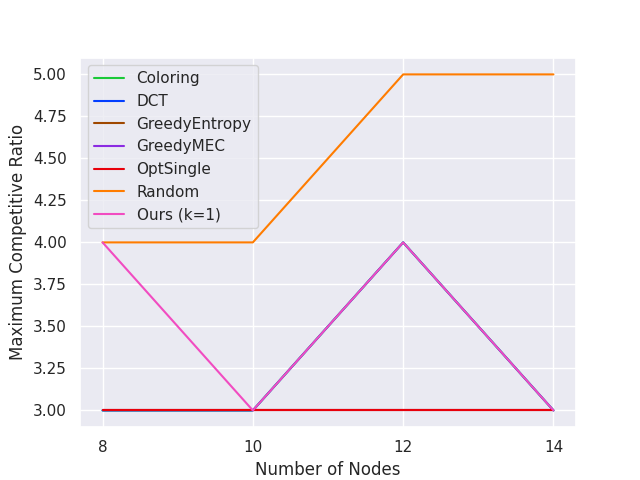
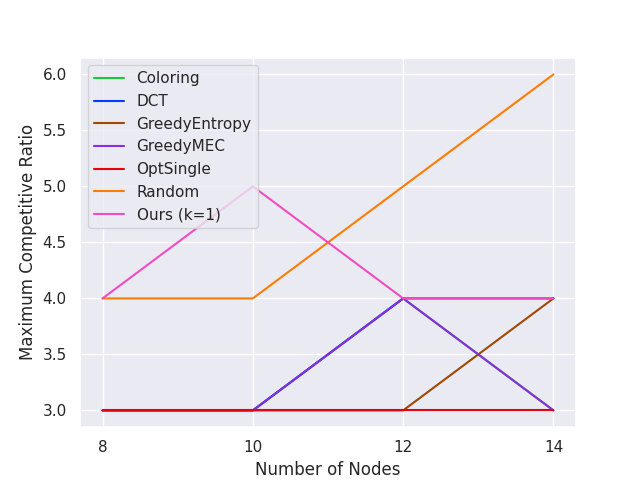
Updated bounded size separator and ratio computation; cleaned up figure generation

diff --git a/our_code/separator_policy.py b/our_code/separator_policy.py
@@ -2,6 +2,8 @@ from causaldag import DAG
 import random
 import networkx as nx
 
+from collections import defaultdict
+import math
 import sys
 sys.path.insert(0, './PADS')
 import LexBFS
@@ -88,30 +90,22 @@ def compute_clique_graph_separator(adj_list, nodes):
     return C
 
 '''
-Steps until fully oriented:
-1) Compute a clique separator
-2) Partition the clique into disjoint subcliques of n/k vertices arbitrarily
-3) To ensure that cut edges are oriented, intervene on all vertices in each subclique, one subclique at a time
-4) For each subclique, pick each vertex with probability 1/2 independently and uniformly at random
-5) Intervened on chosen vertices in 4). Repeat until subclique is fully oriented.
+Maintain a queue of (bounded) size interventions, skipping interventions if all incident edges already oriented.
+If queue is empty, gather 1/2-clique separators from each connected component of size >= 2, and attempt to orient them.
+To orient the union of 1/2-clique separator nodes Q, use atomic interventions if k = 1 or |Q| = 1, else compute the labelling scheme of Lemma 1 of [SKDV15].
 
-Phase 1: steps 1,2
-Phase 2: step 3
-Phase 3: steps 4,5
-
-When k = 1, the algorithm performs atomic intervention as expected 
-- the subcliques are just one vertex each
-- phase 2 will intervene one vertex at a time as long as the vertex is adjacent to unoriented edges
-- phase 3 will be skipped because a singleton subclique has no internal edges
+The following few lines are copied from the proof of Lemma 1
+Let n = p_d a^d + r_d and n = p_{d-1} a^{d-1} + r_{d-1}
+1) Repeat 0 a^{d-1} times, repeat the next integer 1 a^{d-1} times and so on circularly from {0,1,...,a-1} till p_d * a^d.
+2) After that, repeat 0 ceil(r_d/a) times followed by 1 ceil(r_d/a) times till we reach the nth position. Clearly, n-th integer in the sequence would not exceed a-1.
+3) Every integer occurring after the position a^{d-1} p_{d-1} is increased by 1.
 '''
 def separator_policy(dag: DAG, k: int, verbose: bool = False) -> set:
     intervened_nodes = set()
 
     current_cpdag = dag.cpdag()
 
-    phase = 1
-    subcliques = []
-    subclique_idx = 0
+    intervention_queue = []
     while current_cpdag.num_arcs != dag.num_arcs:
         if verbose: print(f"Remaining edges: {current_cpdag.num_edges}")
         
@@ -127,14 +121,23 @@ def separator_policy(dag: DAG, k: int, verbose: bool = False) -> set:
         G.add_edges_from(undirected_portions.edges)
 
         intervention = None
-        while intervention is None:
-            # Phase 1
-            # Step 1: Compute a clique separator
-            # Step 2: Partition the clique into disjoint subcliques of n/k vertices arbitrarily
-            if phase == 1:
-                # Focus on any connected component
-                cc = G.subgraph(max(nx.connected_components(G), key=len))
+        while len(intervention_queue) > 0 and intervention is None:
+            intervention = intervention_queue.pop()
+    
+            # If all incident edges already oriented, skip this intervention
+            if sum([G.degree[node] for node in intervention]) == 0:
+                intervention = None
 
+        if intervention is None:
+            assert len(intervention_queue) == 0
+
+            # Compute 1/2-clique separator for each connected component of size >= 2
+            clique_separator_nodes = []
+            for cc_nodes in nx.connected_components(G):
+                if len(cc_nodes) == 1:
+                    continue
+                cc = G.subgraph(cc_nodes)
+                
                 # Map indices of subgraph into 0..n-1
                 n = len(cc.nodes())
                 map_indices = dict()
@@ -150,47 +153,50 @@ def separator_policy(dag: DAG, k: int, verbose: bool = False) -> set:
                     nodes.append(map_indices[v])
                     adj_list.append([map_indices[x] for x in list(nbr_dict.keys())])
 
-                # Extract nodes from clique separator
-                clique_nodes = compute_clique_graph_separator(adj_list, nodes)
-                clique_nodes = [unmap_indices[v] for v in clique_nodes]
+                # Compute clique separator for this connected component then add to the list
+                clique_separator_nodes += [unmap_indices[v] for v in compute_clique_graph_separator(adj_list, nodes)]
 
-                # Partition clique nodes into groups of size <= k arbitrarily
-                subcliques = [clique_nodes[i*k:(i+1)*k] for i in range((len(clique_nodes)+k-1)//k)]
-                subclique_idx = 0
-                phase = 2
+            assert len(clique_separator_nodes) > 0
+            if k == 1 or len(clique_separator_nodes) == 1:
+                intervention_queue = [set([v]) for v in clique_separator_nodes]
+            else:
+                # Setup parameters. Note that [SKDV15] use n and x+1 instead of h and L
+                h = len(clique_separator_nodes)
+                k_prime = min(k, h/2)
+                a = math.ceil(h/k_prime)
+                assert a >= 2
+                L = math.ceil(math.log(h,a))
+                assert pow(a,L-1) < h and h <= pow(a,L)
 
-            # Phase 2
-            # Step 3: To ensure that cut edges are oriented, intervene on all vertices in each subclique, one subclique at a time
-            if phase == 2:
-                while intervention is None and subclique_idx < len(subcliques):
-                    # Intervene on entire subclique if it is yet to be fully oriented
-                    subclique_nodes = subcliques[subclique_idx]
-                    if sum([G.degree[node] for node in subclique_nodes]) > 0:
-                        intervention = subcliques[subclique_idx]
-                    subclique_idx += 1
-                if intervention is None:
-                    subclique_idx = 0
-                    phase = 3
+                # Execute labelling scheme
+                S = defaultdict(set)
+                for d in range(1, L+1):
+                    a_d = pow(a,d)
+                    r_d = h % a_d
+                    p_d = h // a_d
+                    a_dminus1 = pow(a,d-1)
+                    r_dminus1 = h % a_dminus1 # Unused
+                    p_dminus1 = h // a_dminus1
+                    assert h == p_d * a_d + r_d
+                    assert h == p_dminus1 * a_dminus1 + r_dminus1
+                    for i in range(1, h+1):
+                        node = clique_separator_nodes[i-1]
+                        if i <= p_d * a_d:
+                            val = (i % a_d) // a_dminus1
+                        else:
+                            val = (i - p_d * a_d) // math.ceil(r_d / a)
+                        if i > a_dminus1 * p_dminus1:
+                            val += 1
+                        S[(d,val)].add(node)
 
-            # Phase 3
-            # Step 4: For each subclique, pick each vertex with probability 1/2 independently and uniformly at random
-            # Step 5: Intervened on chosen vertices in 4). Repeat until subclique is fully oriented.
-            if phase == 3:
-                while intervention is None and subclique_idx < len(subcliques):
-                    # If already fully oriented, skip this subclique
-                    subclique_nodes = subcliques[subclique_idx]
-                    if sum([G.degree[node] for node in subclique_nodes]) == 0:
-                        subclique_idx += 1
-                    else:
-                        # Pick each vertex with probability 1/2 independently and uniformly at random
-                        subclique_nodes = subcliques[subclique_idx]
-                        chance = [random.random() for _ in range(len(subclique_nodes))]
-                        intervention = [subclique_nodes[i] for i in range(len(subclique_nodes)) if chance[i] > 0.5]
-                if intervention is None:
-                    phase = 1
+                # Store output
+                intervention_queue = list(S.values())
+            assert len(intervention_queue) > 0    
+            intervention = intervention_queue.pop()
 
         # Intervene on selected node(s) and update the CPDAG
         assert intervention is not None
+        assert len(intervention) <= k
         intervention = frozenset(intervention)
         intervened_nodes.add(intervention)
         current_cpdag = current_cpdag.interventional_cpdag(dag, intervention)

diff --git a/our_code/plot_results_vary_nnodes.py b/our_code/plot_results_vary_nnodes.py
@@ -48,8 +48,9 @@ def plot_results_vary_nodes(
     plt.xticks(nnodes_list)
     plt.legend()
     other_params_str = ','.join((f"{k}={v}" for k, v in other_params.items()))
-    plt.savefig(os.path.join(FIGURE_FOLDER, f'avgregret_sampler={sampler},nnodes_list={nnodes_list},{other_params_str}.png'))
-    plt.savefig(os.path.join(FIGURE_FOLDER, f'avgregret'))
+    #plt.savefig(os.path.join(FIGURE_FOLDER, f'avgregret_sampler={sampler},nnodes_list={nnodes_list},{other_params_str}.png'))
+    #plt.savefig(os.path.join(FIGURE_FOLDER, f'avgregret'))
+    plt.savefig(os.path.join(FIGURE_FOLDER, '{0}_avgcompratio.png'.format(other_params['figname'])))
 
     plt.clf()
     for alg in algorithms:
@@ -60,8 +61,9 @@ def plot_results_vary_nodes(
     plt.legend()
     plt.xticks(nnodes_list)
     other_params_str = ','.join((f"{k}={v}" for k, v in other_params.items()))
-    plt.savefig(os.path.join(FIGURE_FOLDER, f'maxregret_sampler={sampler},nnodes_list={nnodes_list},{other_params_str}.png'))
-    plt.savefig(os.path.join(FIGURE_FOLDER, f'maxregret'))
+    #plt.savefig(os.path.join(FIGURE_FOLDER, f'maxregret_sampler={sampler},nnodes_list={nnodes_list},{other_params_str}.png'))
+    #plt.savefig(os.path.join(FIGURE_FOLDER, f'maxregret'))
+    plt.savefig(os.path.join(FIGURE_FOLDER, '{0}_maxcompratio.png'.format(other_params['figname'])))
 
     plt.clf()
     for alg in algorithms:
@@ -74,7 +76,8 @@ def plot_results_vary_nodes(
     plt.yscale('log')
     plt.xticks(nnodes_list)
     other_params_str = ','.join((f"{k}={v}" for k, v in other_params.items()))
-    plt.savefig(os.path.join(FIGURE_FOLDER, f'times_sampler={sampler},nnodes_list={nnodes_list},{other_params_str}.png'))
-    plt.savefig(os.path.join(FIGURE_FOLDER, f'times'))
+    #plt.savefig(os.path.join(FIGURE_FOLDER, f'times_sampler={sampler},nnodes_list={nnodes_list},{other_params_str}.png'))
+    #plt.savefig(os.path.join(FIGURE_FOLDER, f'times'))
+    plt.savefig(os.path.join(FIGURE_FOLDER, '{0}_time.png'.format(other_params['figname'])))
 
     #ipdb.set_trace()

diff --git a/our_code/result_getter.py b/our_code/result_getter.py
@@ -1,0 +1,49 @@
+import itertools as itr
+from dag_loader import DagLoader
+from alg_runner import AlgRunner
+import pandas as pd
+import math
+
+class ResultGetter:
+    def __init__(self, algs, nnodes_list, sampler, other_params_list, ngraphs=100, comparable_edges=True):
+        self.algs = algs
+        self.nnodes_list = nnodes_list
+        self.other_params_list = other_params_list
+        self.sampler = sampler
+        self.ngraphs = ngraphs
+        self.dag_loaders = [
+            DagLoader(nnodes, self.ngraphs, self.sampler, other_params, comparable_edges=comparable_edges)
+            for nnodes, other_params in itr.product(self.nnodes_list, self.other_params_list)
+        ]
+
+    def get_results(self, overwrite=False):
+        results = []
+
+        for alg in self.algs:
+            for dl in self.dag_loaders:
+                ar = AlgRunner(alg, dl)
+                nnodes_list, times_list = ar.get_alg_results(overwrite=overwrite)
+                vo_list = dl.get_verification_optimal_ivs(overwrite=overwrite)
+
+                # For k > 1, use LOWER BOUND v_k(G) >= ceil(v_1(G) / k) for ratio computation
+                # For k = 1, v_k(G) = ceil(v_1(G) / k)
+                if 'separator' in alg:
+                    k = int(alg[-1])
+                    vo_list = [math.ceil(v1/k) for v1 in vo_list]
+
+                for nnodes, time, vo in zip(nnodes_list, times_list, vo_list):
+                    results.append(dict(
+                        alg=alg,
+                        nnodes=dl.nnodes,
+                        **dl.other_params,
+                        interventions=nnodes,
+                        time=time,
+                        vo=vo
+                    ))
+
+        res_df = pd.DataFrame(results)
+        res_df = res_df.set_index(list(set(res_df.columns) - {'interventions', 'time', 'vo'}))
+        res_df['regret_ratio'] = res_df['interventions'] / res_df['vo']
+        return res_df
+
+

diff --git a/our_code/alg_runner.py b/our_code/alg_runner.py
@@ -54,6 +54,7 @@ class AlgRunner:
                 intervened_nodes = alg(**params)
                 time_taken = time() - start
 
+                validate = True # Always validate
                 if validate:
                     #cpdag = dag.interventional_cpdag([{node} for node in intervened_nodes], cpdag=dag.cpdag())
                     cpdag = dag.interventional_cpdag([{intervention} if type(intervention) is not frozenset else intervention for intervention in intervened_nodes], cpdag=dag.cpdag())
@@ -62,8 +63,7 @@ class AlgRunner:
                         print(f"ix={ix}, alg={self.alg}, num intervened = {len(intervened_nodes)}, num edges={cpdag.num_edges}")
                         raise RuntimeError
                 # write_list(intervened_nodes, os.path.join(self.alg_folder, f'nodes{ix}.txt'))
-                #return len(intervened_nodes), time_taken
-                return sum([1 if type(intervention) is not frozenset else len(intervention) for intervention in intervened_nodes]), time_taken
+                return len(intervened_nodes), time_taken
 
             if multithread:
                 print(f'[AlgRunner.get_alg_results] Running {self.alg} on {cpu_count()-1} cores')

diff --git a/our_code/exp3.py b/our_code/exp3.py
@@ -2,18 +2,17 @@ from dag_loader import DagSampler
 from plot_results_vary_nnodes import plot_results_vary_nodes
 
 algs = [
-    'separator_k1',
-    'separator_k2',
-    'separator_k3',
-    'separator_k5'
+    'random',
+    'dct',
+    'coloring',
+    'separator_k1'
 ]
 nnodes_list = [100, 200, 300, 400, 500]
 plot_results_vary_nodes(
     nnodes_list,
     100,
     DagSampler.HAIRBALL_PLUS,
-    #dict(degree=4, e_min=2, e_max=5),
-    dict(degree=40, e_min=20, e_max=50),
+    dict(degree=4, e_min=2, e_max=5, figname="exp3"),
     algorithms=algs,
     overwrite=True
 )

diff --git a/our_code/exp1.py b/our_code/exp1.py
@@ -2,17 +2,18 @@ from dag_loader import DagSampler
 from plot_results_vary_nnodes import plot_results_vary_nodes
 
 algs = [
-    'separator_k1',
-    'separator_k2',
-    'separator_k3',
-    'separator_k5'
+    'random',
+    'dct',
+    'coloring',
+    'opt_single',
+    'separator_k1'
 ]
-nnodes_list = list(range(10, 101, 5))
+nnodes_list = [10, 15, 20, 25]
 plot_results_vary_nodes(
     nnodes_list,
     100,
     DagSampler.SHANMUGAM,
-    dict(density=.1),
+    dict(density=.1, figname="exp1"),
     algorithms=algs,
     overwrite=True
 )

diff --git a/our_code/exp4.py b/our_code/exp4.py
@@ -2,18 +2,17 @@ from dag_loader import DagSampler
 from plot_results_vary_nnodes import plot_results_vary_nodes
 
 algs = [
-    'random',
-    'dct',
-    'coloring',
-    'opt_single',
-    'separator_k1'
+    'separator_k1',
+    'separator_k2',
+    'separator_k3',
+    'separator_k5'
 ]
-nnodes_list = [10, 15, 20, 25]
+nnodes_list = list(range(10, 101, 5))
 plot_results_vary_nodes(
     nnodes_list,
     100,
     DagSampler.SHANMUGAM,
-    dict(density=.1),
+    dict(density=.1, figname="exp4"),
     algorithms=algs,
     overwrite=True
 )

diff --git a/our_code/exp5.py b/our_code/exp5.py
@@ -2,17 +2,17 @@ from dag_loader import DagSampler
 from plot_results_vary_nnodes import plot_results_vary_nodes
 
 algs = [
-    'random',
-    'dct',
-    'coloring',
-    'separator_k1'
+    'separator_k1',
+    'separator_k2',
+    'separator_k3',
+    'separator_k5'
 ]
 nnodes_list = [100, 200, 300, 400, 500]
 plot_results_vary_nodes(
     nnodes_list,
     100,
     DagSampler.HAIRBALL_PLUS,
-    dict(degree=4, e_min=2, e_max=5),
+    dict(degree=40, e_min=20, e_max=50, figname="exp5"),
     algorithms=algs,
     overwrite=True
 )

diff --git a/our_code/exp2.py b/our_code/exp2.py
@@ -15,7 +15,7 @@ plot_results_vary_nodes(
     nnodes_list,
     100,
     DagSampler.SHANMUGAM,
-    dict(density=.1),
+    dict(density=.1, figname="exp2"),
     algorithms=algs,
     overwrite=True
 )
